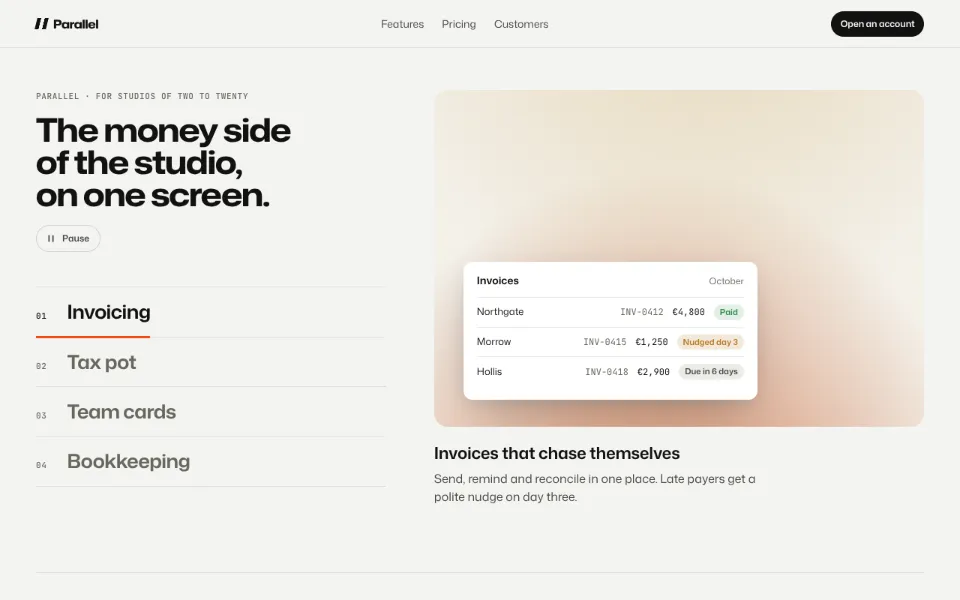
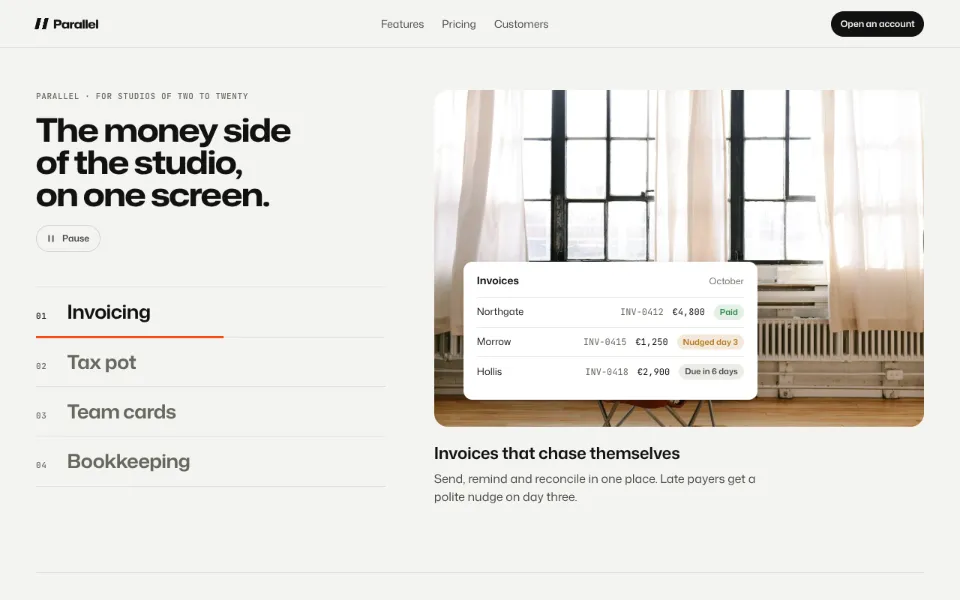
Product, commerce and closers: nine components
Batch G, each passing check and smoke and reviewed at three sizes in both
themes: spec-sheet, autoplay-tabs, cart-drawer, before-after,
model-hotspots, big-footer, sentence-form, physics-tags, confetti-rain.

Shared fixes from the batch's notes:
- photo(id, { fallbackTags }) for a named picture with a tagged fallback.
- authoring.md: step simulations ahead in capture mode and give WAAPI
  finished promises a timer fallback, since headless clocks run slow.

Claude-Session: https://claude.ai/code/session_01FSExaLDapN7Ue3cgEwCTvE

Changed region(s): [[0.4375, 0.15, 0.9688, 0.72], [0.1562, 0.54, 0.2188, 0.57]]

diff --git a/src/demo-kit/media.js b/src/demo-kit/media.js
@@ -1,5 +1,6 @@
 // The shared picture set (CC0 / public domain, credited in CREDITS.md and on each component page).
-// photo('id') → { src, srcSm, alt, width, height, focus, credit, tags } with URLs resolved against the site base.
+// photo('id', { fallbackTags }) → { src, srcSm, alt, width, height, focus, credit, tags } with URLs resolved against
+// the site base. Ask only for pictures the demo shows: every returned picture is credited on the component page.
 // photos({ tags: ['object'], count: 6, seed: 'shop', exclude: ['id', …] }) → a deterministic pick by tag; exclude keeps
 // separate calls from returning the same picture (pass the ids of an earlier pick).
 // image(item, { sizes, eager, className }) → an <img> with srcset, decoding async, lazy unless eager.
@@ -44,8 +45,10 @@ export const allPhotos = () => items.slice();
 // Pictures a demo actually used, read by the play runtime so the component page can credit them.
 const used = (window.__acMedia ||= new Set());
 
-export function photo(id) {
-  const hit = byId.get(id);
+// photo('id', { fallbackTags: ['ceramic'] }): a named picture, else the first match for the tags, else drawn art.
+export function photo(id, { fallbackTags } = {}) {
+  let hit = byId.get(id);
+  if (!hit && fallbackTags?.length) hit = items.find((m) => fallbackTags.every((t) => m.tags?.includes(t)));
   if (hit) used.add(hit.id);
   return hit || art(id);
 }

diff --git a/docs/authoring.md b/docs/authoring.md
@@ -114,7 +114,7 @@ export default function mount(root, options, ctx) {
 - `signal` aborts on unmount: pass it to every `addEventListener` (`on(ctx, target, type, fn)` does).
 - `onCleanup(fn)` runs on unmount, in reverse order.
 - `onTheme(fn)` is called on a light/dark change. CSS custom properties update by themselves; canvas and WebGL code re-read tokens here (or set `preview.remountOnTheme`).
-- `capture` is true while `scripts/frames.mjs` takes the thumbnail: hide instructions that only make sense live, and hold a representative moment instead of relying on pointer timing (under headless SwiftShader a pointer move can take seconds, so a short-lived trail or wake may be gone before the shot). Set the state the frame should show when `ctx.capture` is true.
+- `capture` is true while `scripts/frames.mjs` takes the thumbnail: hide instructions that only make sense live, and hold a representative moment instead of relying on pointer timing (under headless SwiftShader a pointer move can take seconds, so a short-lived trail or wake may be gone before the shot). Set the state the frame should show when `ctx.capture` is true. Headless clocks also run slow (a few frames per second under load), so step simulations such as physics or particles ahead synchronously in capture mode, and give any wait on a WAAPI `finished` promise a timer fallback.
 
 **The returned instance** (all optional): `update(options, changedIds)` applies values live (return `false` to have the runtime re-mount, debounced); `action(id)` runs a `meta.actions` entry; `destroy()` for extra teardown.
 
